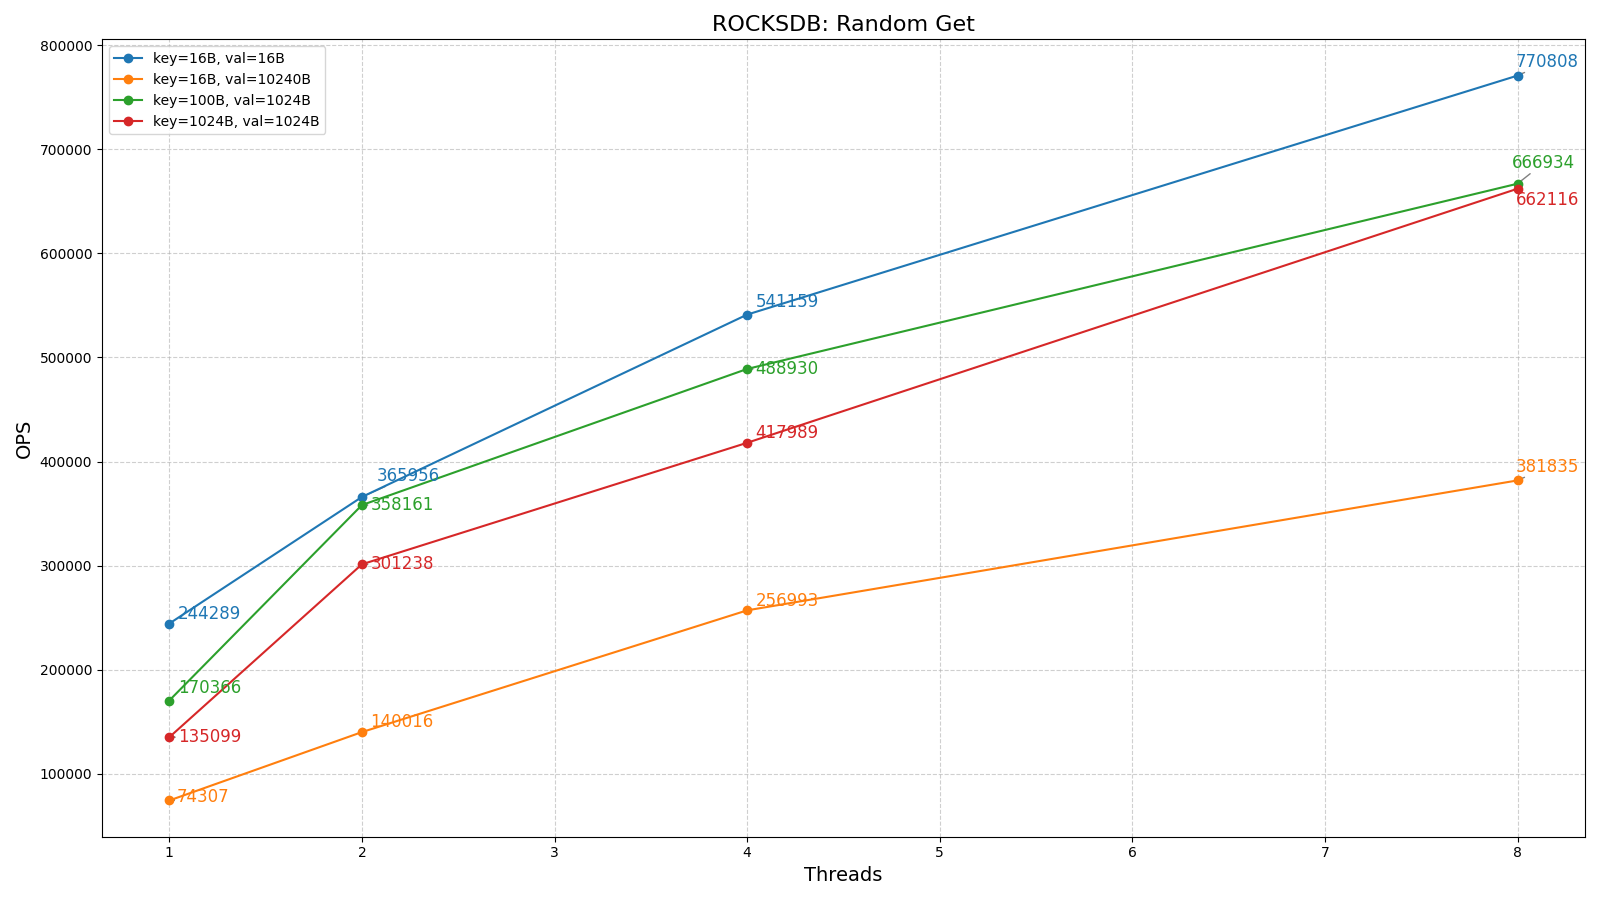
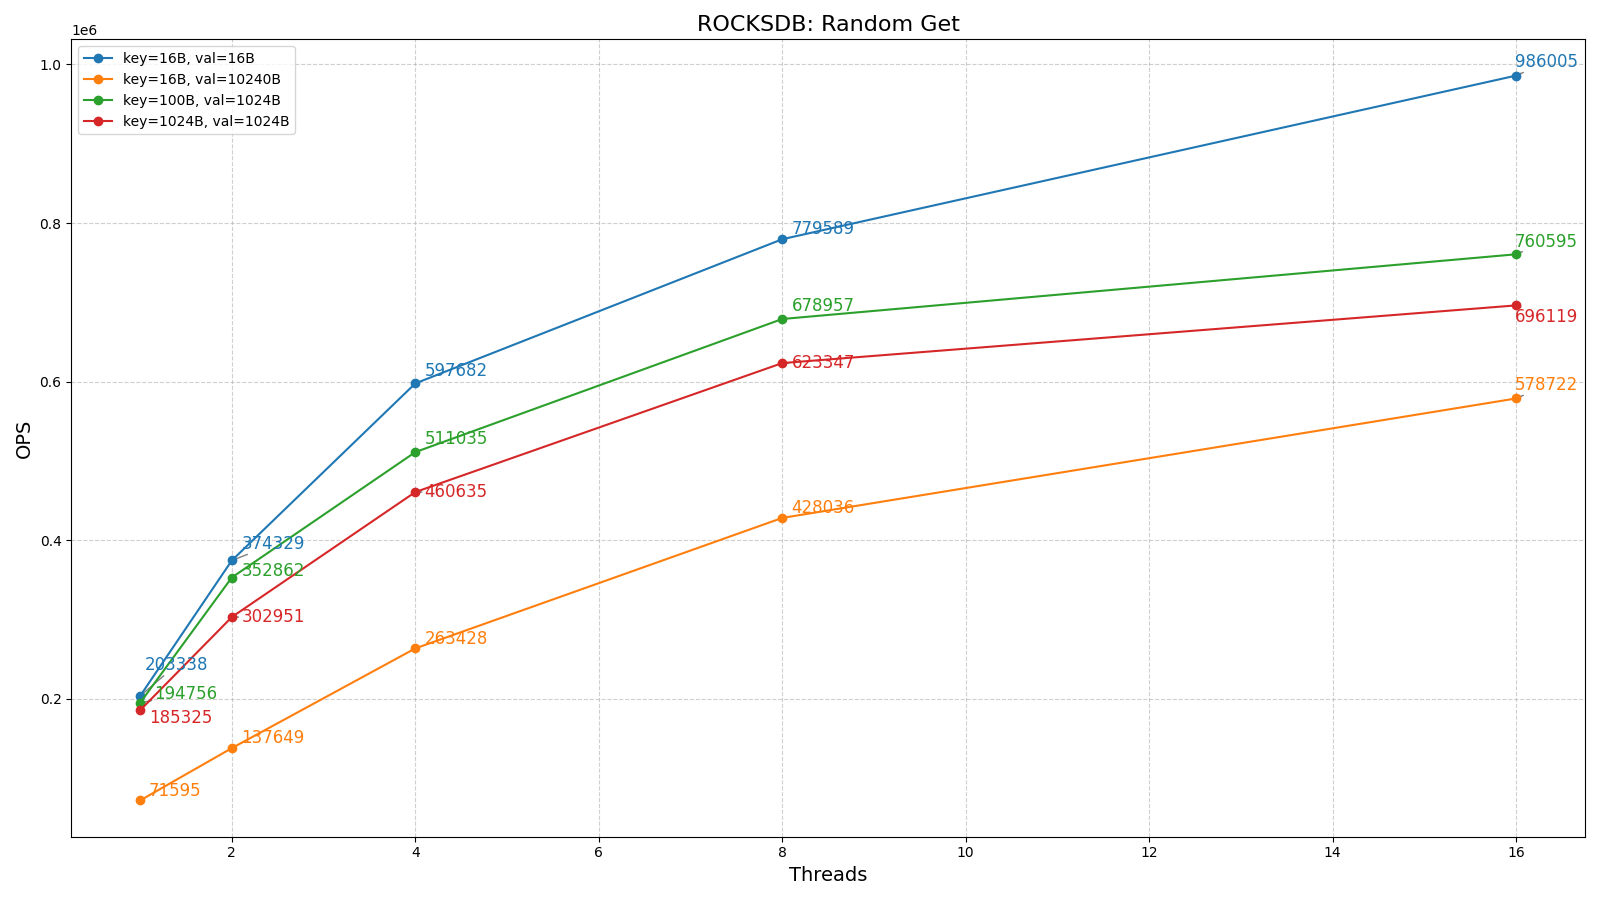
fix test

diff --git a/rocksdb/main.cpp b/rocksdb/main.cpp
@@ -1,7 +1,8 @@
-#include <algorithm>
 #include <atomic>
 #include <cstdint>
 #include <cstdio>
+#include <cstdlib>
+#include <exception>
 #include <fmt/base.h>
 #include <fmt/format.h>
 #include <memory>
@@ -10,6 +11,7 @@
 #include <rocksdb/db.h>
 #include <rocksdb/env.h>
 #include <rocksdb/options.h>
+#include <rocksdb/slice.h>
 #include <rocksdb/table.h>
 #include <rocksdb/utilities/optimistic_transaction_db.h>
 #include <rocksdb/utilities/transaction.h>
@@ -23,11 +25,17 @@
 #include "CLI/CLI.hpp"
 #include "instant.h"
 
+template<class T>
+static void black_box(const T &t) {
+    asm volatile("" ::"m"(t) : "memory");
+}
+
 struct Args {
     size_t threads;
     size_t iterations;
     size_t key_size;
     size_t value_size;
+    size_t blob_size;
     size_t insert_ratio;
     bool random;
     std::string mode;
@@ -41,6 +49,7 @@ int main(int argc, char *argv[]) {
             .iterations = 100000,
             .key_size = 16,
             .value_size = 1024,
+            .blob_size = 8192,
             .insert_ratio = 30,
             .mode = "insert",
             .path = "/tmp/rocksdb_tmp",
@@ -50,6 +59,7 @@ int main(int argc, char *argv[]) {
     app.add_option("-t,--threads", args.threads, "Threads");
     app.add_option("-k,--key-size", args.key_size, "Key Size");
     app.add_option("-v,--value-size", args.value_size, "Value Size");
+    app.add_option("-b,--blob-size", args.value_size, "Blob Size");
     app.add_option("-i,--iterations", args.iterations, "Iterations");
     app.add_option("-r,--insert-ratio", args.insert_ratio, "Insert Ratio for mixed mode");
     app.add_option("-p,--path", args.path, "DataBase Home");
@@ -82,9 +92,25 @@ int main(int argc, char *argv[]) {
         return 1;
     }
 
+    auto find_upper_bound = [](std::string prefix) {
+        std::string upper_bound_key = prefix;
+        for (int i = upper_bound_key.length() - 1; i >= 0; --i) {
+            if ((unsigned char) upper_bound_key[i] != 0xff) {
+                upper_bound_key[i] = (unsigned char) upper_bound_key[i] + 1;
+                upper_bound_key.resize(i + 1);
+                break;
+            }
+            if (i == 0) {
+                upper_bound_key = "";
+                break;
+            }
+        }
+        return upper_bound_key;
+    };
+
     rocksdb::ColumnFamilyOptions cfo{};
     cfo.enable_blob_files = true;
-    cfo.min_blob_size = 8192;
+    cfo.min_blob_size = args.blob_size;
     // use 1GB block cache
     auto cache = rocksdb::NewLRUCache(1 << 30);
     rocksdb::BlockBasedTableOptions table_options{};
@@ -122,11 +148,11 @@ int main(int argc, char *argv[]) {
     std::mt19937 gen(rd());
     std::uniform_int_distribution<int> dist(0, 100);
 
-
     std::string val(args.value_size, 'x');
+    auto keys_per_thread = args.iterations / args.threads;
     for (size_t tid = 0; tid < args.threads; ++tid) {
         std::vector<std::string> key{};
-        for (size_t i = 0; i < args.iterations; ++i) {
+        for (size_t i = 0; i < keys_per_thread; ++i) {
             auto tmp = std::format("key_{}_{}", tid, i);
             tmp.resize(args.key_size, 'x');
             key.emplace_back(std::move(tmp));
@@ -136,7 +162,6 @@ int main(int argc, char *argv[]) {
         }
         keys.emplace_back(std::move(key));
     }
-
 
     auto *handle = handles[0];
 
@@ -156,15 +181,37 @@ int main(int argc, char *argv[]) {
         // re-open db
         s = rocksdb::OptimisticTransactionDB::Open(options, args.path, cfd, &handles, &db);
         assert(s.ok());
+
+        handle = handles[0];
+
+        // simulate common use cases
+        std::uniform_int_distribution<int> dist(0, args.threads - 1);
+        for (size_t i = 0; i < keys_per_thread; ++i) {
+            auto tid = dist(gen);
+            auto k = std::format("key_{}_{}", tid, i);
+            k.resize(args.key_size, 'x');
+            auto s = db->Get(rocksdb::ReadOptions(), k, &val);
+            if (!s.ok()) {
+                std::terminate();
+            }
+        }
     }
 
-    handle = handles[0];
+    auto *snapshot = db->GetSnapshot();
     for (size_t tid = 0; tid < args.threads; ++tid) {
-        auto *tk = &keys[tid];
         wg.emplace_back([&, tid] {
             std::string rval(args.value_size, '0');
             auto prefix = std::format("key_{}", tid);
             auto ropt = rocksdb::ReadOptions();
+            auto upper_bound = find_upper_bound(prefix);
+            auto upper_bound_slice = rocksdb::Slice(upper_bound);
+            if (!upper_bound.empty()) {
+                ropt.iterate_upper_bound = &upper_bound_slice;
+            }
+            auto *tk = &keys[tid];
+            ropt.prefix_same_as_start = true;
+            ropt.snapshot = snapshot;
+            size_t round = 0;
 
             barrier.arrive_and_wait();
             if (mtx.try_lock()) {
@@ -174,6 +221,7 @@ int main(int argc, char *argv[]) {
 
             if (args.mode == "insert") {
                 for (auto &key: *tk) {
+                    round += 1;
                     auto *kv = db->BeginTransaction(wopt);
                     kv->Put(handle, key, val);
                     kv->Commit();
@@ -182,6 +230,7 @@ int main(int argc, char *argv[]) {
 
             } else if (args.mode == "get") {
                 for (auto &key: *tk) {
+                    round += 1;
                     auto *kv = db->BeginTransaction(wopt);
                     kv->Get(ropt, handle, key, &rval);
                     kv->Commit();
@@ -189,6 +238,7 @@ int main(int argc, char *argv[]) {
                 }
             } else if (args.mode == "mixed") {
                 for (auto &key: *tk) {
+                    round += 1;
                     auto is_insert = dist(gen) < args.insert_ratio;
                     auto *kv = db->BeginTransaction(wopt);
                     if (is_insert) {
@@ -202,12 +252,19 @@ int main(int argc, char *argv[]) {
             } else if (args.mode == "scan") {
                 auto *iter = db->NewIterator(ropt);
                 iter->Seek(prefix);
+                size_t n = 0;
                 while (iter->Valid()) {
+                    round += 1;
+                    auto k = iter->key();
+                    auto v = iter->value();
+                    black_box(k);
+                    black_box(v);
                     iter->Next();
+                    n += 1;
                 }
                 delete iter;
             }
-            total_op.fetch_add(args.iterations, std::memory_order::relaxed);
+            total_op.fetch_add(round, std::memory_order::relaxed);
         });
     }
 
@@ -222,6 +279,7 @@ int main(int argc, char *argv[]) {
     uint64_t ops = total_op.load(std::memory_order_relaxed) / b.elapse_sec();
     fmt::println("{},{},{},{},{},{},{}", args.mode, args.threads, args.key_size, args.value_size, ratio, (uint64_t) ops,
                  (uint64_t) b.elapse_ms());
+    db->ReleaseSnapshot(snapshot);
     delete handle;
     delete db;
     std::filesystem::remove_all(args.path);

diff --git a/src/main.rs b/src/main.rs
@@ -89,9 +89,10 @@ fn main() {
 
     let mut rng = rand::rng();
     let value = Arc::new(vec![b'0'; args.value_size]);
+    let keys_per_thread = args.iterations / args.threads;
     for tid in 0..args.threads {
-        let mut tk = Vec::with_capacity(args.iterations);
-        for i in 0..args.iterations {
+        let mut tk = Vec::with_capacity(keys_per_thread);
+        for i in 0..keys_per_thread {
             let mut key = format!("key_{tid}_{i}").into_bytes();
             key.resize(args.key_size, b'x');
             tk.push(key);
@@ -105,8 +106,8 @@ fn main() {
     if args.mode == "get" || args.mode == "scan" {
         let pre_tx = db.begin().unwrap();
         (0..args.threads).for_each(|tid| {
-            for i in 0..args.iterations {
-                pre_tx.put(&keys[tid][i], &*value).unwrap();
+            for k in &keys[tid] {
+                pre_tx.put(k, &*value).unwrap();
             }
         });
         pre_tx.commit().unwrap();
@@ -114,6 +115,15 @@ fn main() {
         // re-open db
         saved.tmp_store = true;
         db = Mace::new(saved.validate().unwrap()).unwrap();
+
+        // simulate common use cases
+        for i in 0..keys_per_thread {
+            let tid = rng.random_range(0..args.threads);
+            let mut k = format!("key_{tid}_{i}").into_bytes();
+            k.resize(args.key_size, b'x');
+            let view = db.view().unwrap();
+            view.get(&k).unwrap();
+        }
     }
 
     let barrier = Arc::new(std::sync::Barrier::new(args.threads));
@@ -134,6 +144,7 @@ fn main() {
 
             std::thread::spawn(move || {
                 // coreid::bind_core(tid);
+                let mut round = 0;
                 barrier.wait();
 
                 {
@@ -141,10 +152,10 @@ fn main() {
                         *guard = Instant::now();
                     }
                 }
-
                 match mode.as_str() {
                     "insert" => {
                         for key in tk {
+                            round += 1;
                             let tx = db.begin().unwrap();
                             tx.put(key.as_slice(), val.as_slice()).unwrap();
                             tx.commit().unwrap();
@@ -152,13 +163,16 @@ fn main() {
                     }
                     "get" => {
                         for key in tk {
+                            round += 1;
                             let tx = db.view().unwrap();
-                            tx.get(key).unwrap();
+                            let x = tx.get(key).unwrap();
+                            std::hint::black_box(x);
                         }
                     }
                     "mixed" => {
                         for key in tk {
                             let is_insert = rand::random_range(0..100) < insert_ratio;
+                            round += 1;
 
                             if is_insert {
                                 let tx = db.begin().unwrap();
@@ -166,7 +180,8 @@ fn main() {
                                 tx.commit().unwrap();
                             } else {
                                 let tx = db.view().unwrap();
-                                let _ = tx.get(key); // not found
+                                let x = tx.get(key); // not found
+                                let _ = std::hint::black_box(x);
                             }
                         }
                     }
@@ -174,13 +189,14 @@ fn main() {
                         let view = db.view().unwrap();
                         let iter = view.seek(prefix);
                         for x in iter {
+                            round += 1;
                             std::hint::black_box(x);
                         }
                     }
                     _ => panic!("Invalid mode"),
                 }
 
-                total_ops.fetch_add(args.iterations, std::sync::atomic::Ordering::Relaxed);
+                total_ops.fetch_add(round, std::sync::atomic::Ordering::Relaxed);
             })
         })
         .collect();
@@ -194,16 +210,6 @@ fn main() {
     let total = total_ops.load(std::sync::atomic::Ordering::Relaxed);
     let ops = (total as f64 / duration.as_secs_f64()) as usize;
 
-    // println!("{:<20} {}", "Test Mode:", args.mode);
-    // println!("{:<20} {}", "Threads:", args.threads);
-    // println!("{:<20} {}", "Iterations", args.iterations);
-    // println!("{:<20} {}B", "Key Size:", args.key_size);
-    // println!("{:<20} {}B", "Value Size:", args.value_size);
-    // println!("{:<20} {ops}", "Total Ops:");
-    // if args.mode == "mixed" {
-    //     println!("{:<20} {}%", "Insert Ratio:", args.insert_ratio);
-    // }
-
     let ratio = if args.mode == "mixed" {
         args.insert_ratio
     } else if args.mode == "insert" {
@@ -211,9 +217,8 @@ fn main() {
     } else {
         0
     };
-    // eprintln!("mode,threads,key_size,value_size,insert_ratio,ops");
     eprintln!(
-        "{},{},{},{},{},{:.2},{}",
+        "{},{},{},{},{},{},{}",
         args.mode,
         args.threads,
         args.key_size,
